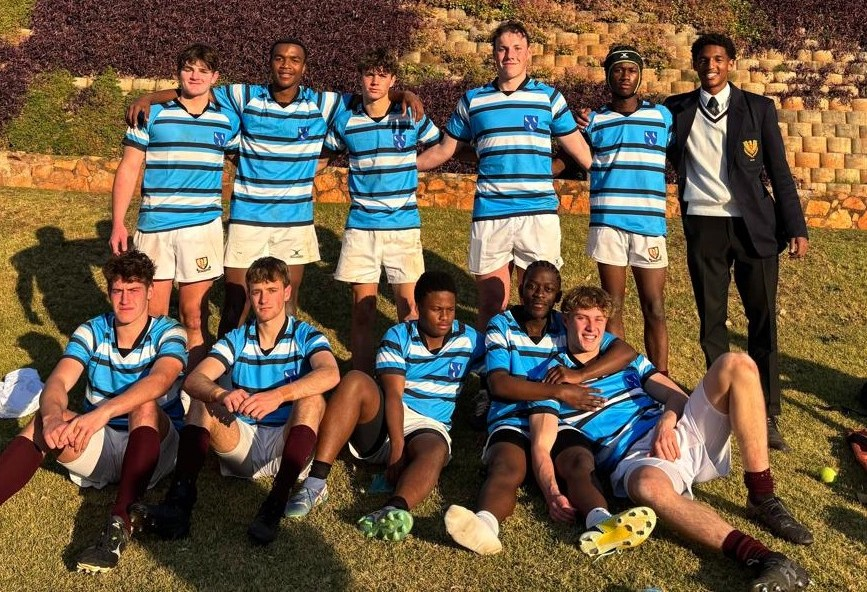
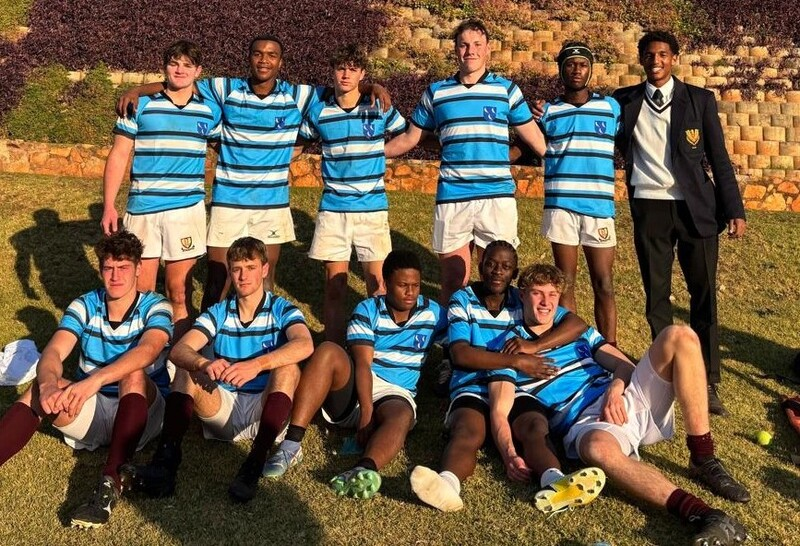
Uploaded optimized images to gallery

diff --git a/assets/js/Media.js b/assets/js/Media.js
@@ -1,7 +1,11 @@
 import { sortObjectsByDate } from "./utils.js";
 
 export class Media {
-	constructor(date, imageSRC = "https://fakeimg.pl/600x400", imageALT = "") {
+	constructor(
+		date,
+		imageSRC = "./assets/media/images/placeholder.jpg",
+		imageALT = ""
+	) {
 		this.date = date;
 		this.imageSRC = imageSRC;
 		this.imageALT = imageALT;
@@ -12,10 +16,12 @@ export const media = [];
 
 // 2025 uploads
 for (let i = 0; i < 18; i++) {
-	media.push(new Media("2025-12-04", `assets/media/images/gallery/2025/2025-nash-${i}.jpg`));
+	media.push(
+		new Media(
+			"2025-12-04",
+			`assets/media/images/gallery/2025/2025-nash-${i}.jpg`
+		)
+	);
 }
 
 export const sortedMedia = sortObjectsByDate(media, "date", false);
-
-
-
